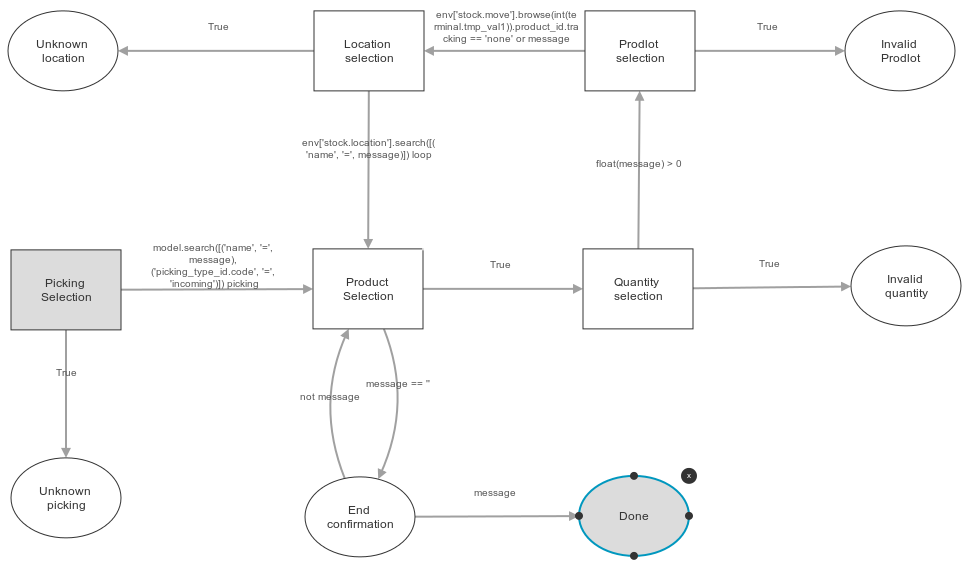
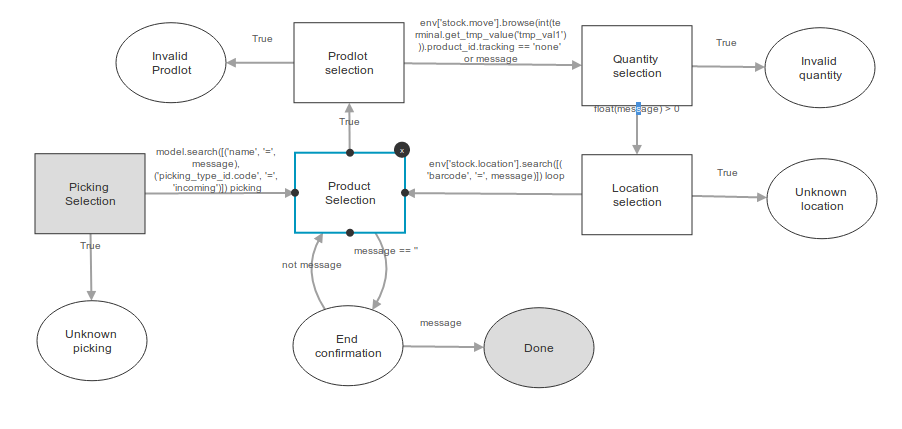
[IMP] stock_scanner_receipt: exchange positions steps Prodlot selection and Quantity selection

diff --git a/stock_scanner_receipt/data/Receipt/scanner_scenario_step_receipt_product_selection.py b/stock_scanner_receipt/data/Receipt/scanner_scenario_step_receipt_product_selection.py
@@ -15,19 +15,16 @@ if tracer == 'loop':
         'picking_id': picking.id,
         'product_id': move.product_id.id,
         'move_id': move.id,
-        'product_uom_id' :  move.product_uom.id,
+        'product_uom_id':  move.product_uom.id,
         'location_id': picking.location_id.id,
         'location_dest_id': location.id,
         'qty_done': quantity,
     }
 
     if terminal.get_tmp_value('tmp_val3'):
-        s_m_l['lot_id'] =  int(terminal.get_tmp_value('tmp_val3'))
-
-
+        s_m_l['lot_id'] = int(terminal.get_tmp_value('tmp_val3'))
 
     env['stock.move.line'].create(s_m_l)
-
 
 elif tracer == 'picking':
     picking = env['stock.picking'].search([('name', '=', message)])
@@ -37,7 +34,10 @@ else:
     picking = env['stock.picking'].browse(terminal.reference_document)
 
 act = 'L'
-res = [(move.id, '%g %s, %s' % (move.product_uom_qty - move.quantity_done, move.product_uom.name, move.product_id.name)) for move in picking.move_lines ]
+res = [
+    (move.id, '%g %s, %s' % (move.product_uom_qty - move.quantity_done, move.product_uom.name, move.product_id.name))
+    for move in picking.move_lines
+]
 
 if not res:
     act = 'A'

diff --git a/stock_scanner_receipt/data/Receipt/scanner_scenario_step_receipt_quantity_selection.py b/stock_scanner_receipt/data/Receipt/scanner_scenario_step_receipt_quantity_selection.py
@@ -5,14 +5,30 @@
 'Put the returned result or message in <res>, as a list of strings.'
 'Put the returned value in <val>, as an integer'
 
-move = env['stock.move'].browse(int(message))
+move = env['stock.move'].browse(int(terminal.get_tmp_value('tmp_val1')))
 
-terminal.set_tmp_value('tmp_val1', move.id)
+prodlot_name = message
+prodlot = env['stock.production.lot'].search([('name', '=', prodlot_name)])
+if not prodlot:
+    prodlot = env['stock.production.lot'].create({
+        'name': prodlot_name,
+        'product_id': move.product_id.id,
+    })
+
+
+terminal.set_tmp_value('tmp_val3', prodlot.id)
 
 act = 'Q'
 res = [
     _('Product : %s' % move.product_id.name),
+]
+product_tracking = move.product_id.tracking
+if product_tracking != 'none':
+    res.append(
+        _('Lot : %s') % (prodlot and prodlot.name or _('None')),
+    )
+res += [
     '',
     _('Quantity ?'),
 ]
-val = move.product_qty
+val = max(move.product_uom_qty - move.quantity_done, 0.0)

diff --git a/stock_scanner_receipt/data/Receipt/scanner_scenario_step_receipt_location_selection.py b/stock_scanner_receipt/data/Receipt/scanner_scenario_step_receipt_location_selection.py
@@ -5,19 +5,12 @@
 'Put the returned result or message in <res>, as a list of strings.'
 'Put the returned value in <val>, as an integer'
 
-prodlot_name = message
 move = env['stock.move'].browse(int(terminal.get_tmp_value('tmp_val1')))
 
-prodlot = env['stock.production.lot'].search([('name', '=', prodlot_name)])
-if not prodlot:
-    prodlot = env['stock.production.lot'].create({
-        'name': prodlot_name,
-        'product_id': move.product_id.id,
-    })
+quantity = float(message)
+terminal.set_tmp_value('tmp_val2', quantity)
 
-quantity = float(terminal.get_tmp_value('tmp_val2'))
-
-terminal.set_tmp_value('tmp_val3', prodlot.id)
+prodlot = env['stock.move'].browse(int(terminal.get_tmp_value('tmp_val3')))
 
 act = 'T'
 res = [

diff --git a/stock_scanner_receipt/data/Receipt/scanner_scenario_step_receipt_prodlot_selection.py b/stock_scanner_receipt/data/Receipt/scanner_scenario_step_receipt_prodlot_selection.py
@@ -5,18 +5,15 @@
 'Put the returned result or message in <res>, as a list of strings.'
 'Put the returned value in <val>, as an integer'
 
-move = env['stock.move'].browse(int(terminal.get_tmp_value('tmp_val1')))
-quantity = float(message)
+move = env['stock.move'].browse(int(message))
+terminal.set_tmp_value('tmp_val1', move.id)
 
-terminal.set_tmp_value('tmp_val2',quantity)
-
-act = 'T'
 res = [
     _('Product : %s') % move.product_id.name,
-    _('Quantity : %g %s') % (quantity, move.product_uom.name),
-    '',
-    _('Lot ?'),
 ]
 if move.product_id.tracking == 'none':
-    val = ''
     act = 'A'
+    val = ''
+else:
+    act = 'T'
+    res += ['', _('Lot ?')]
